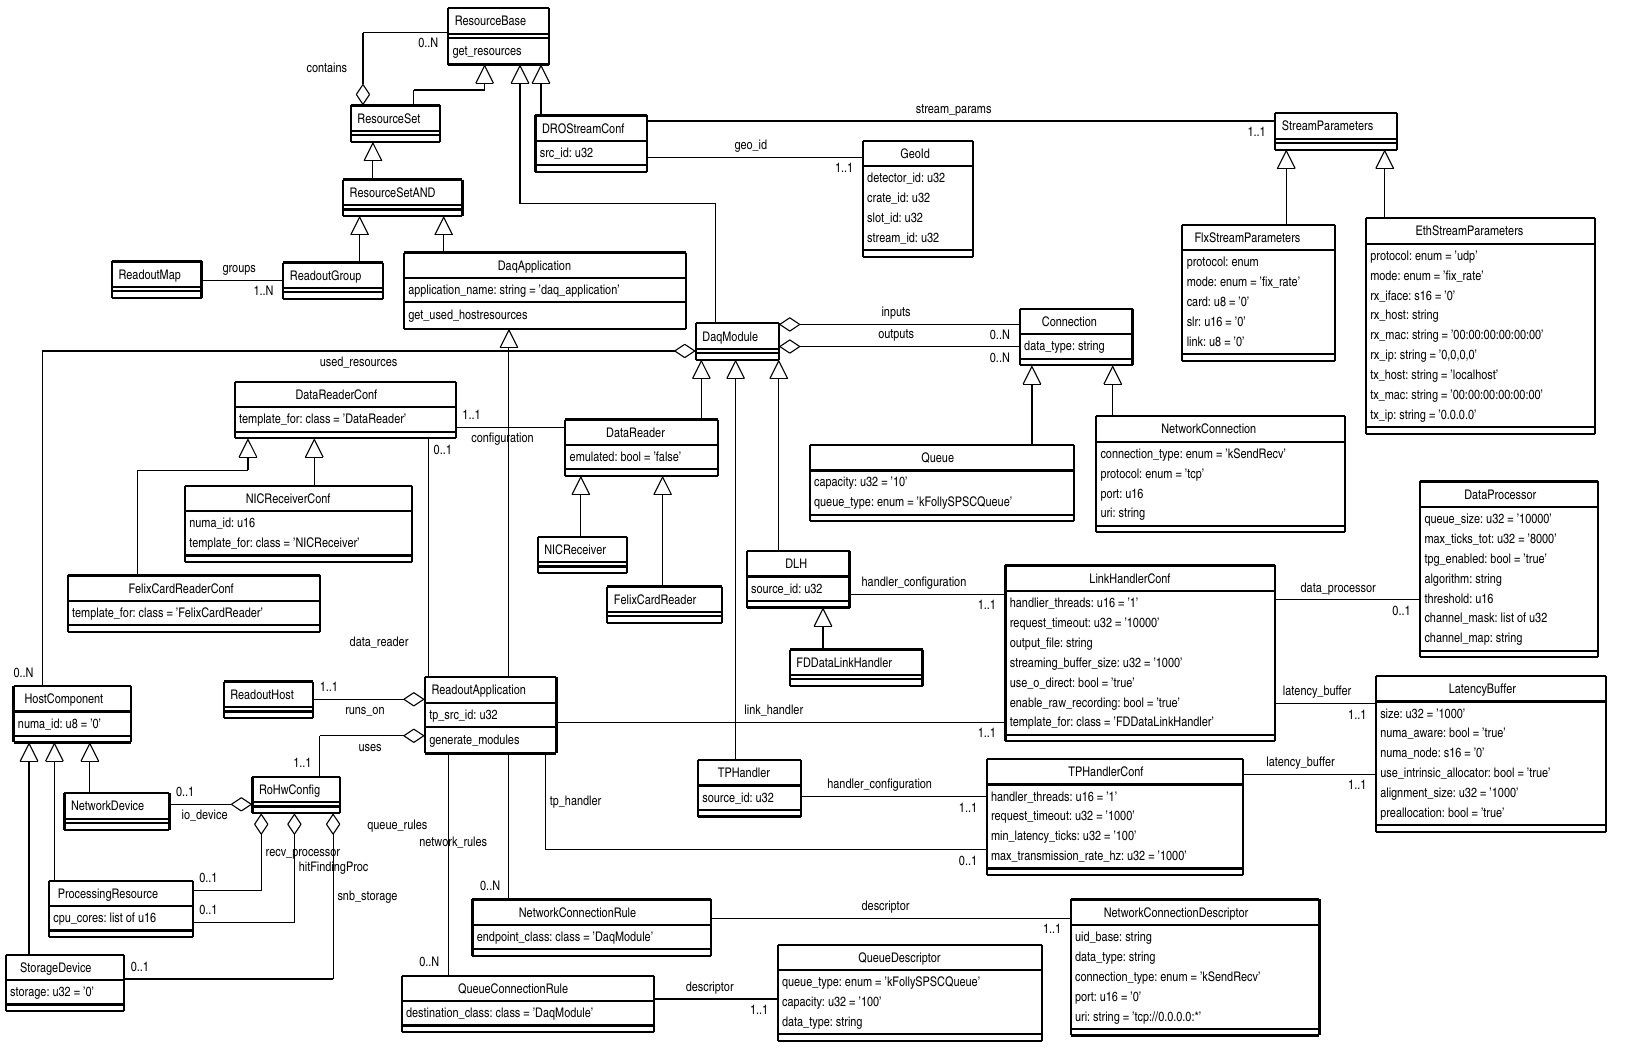
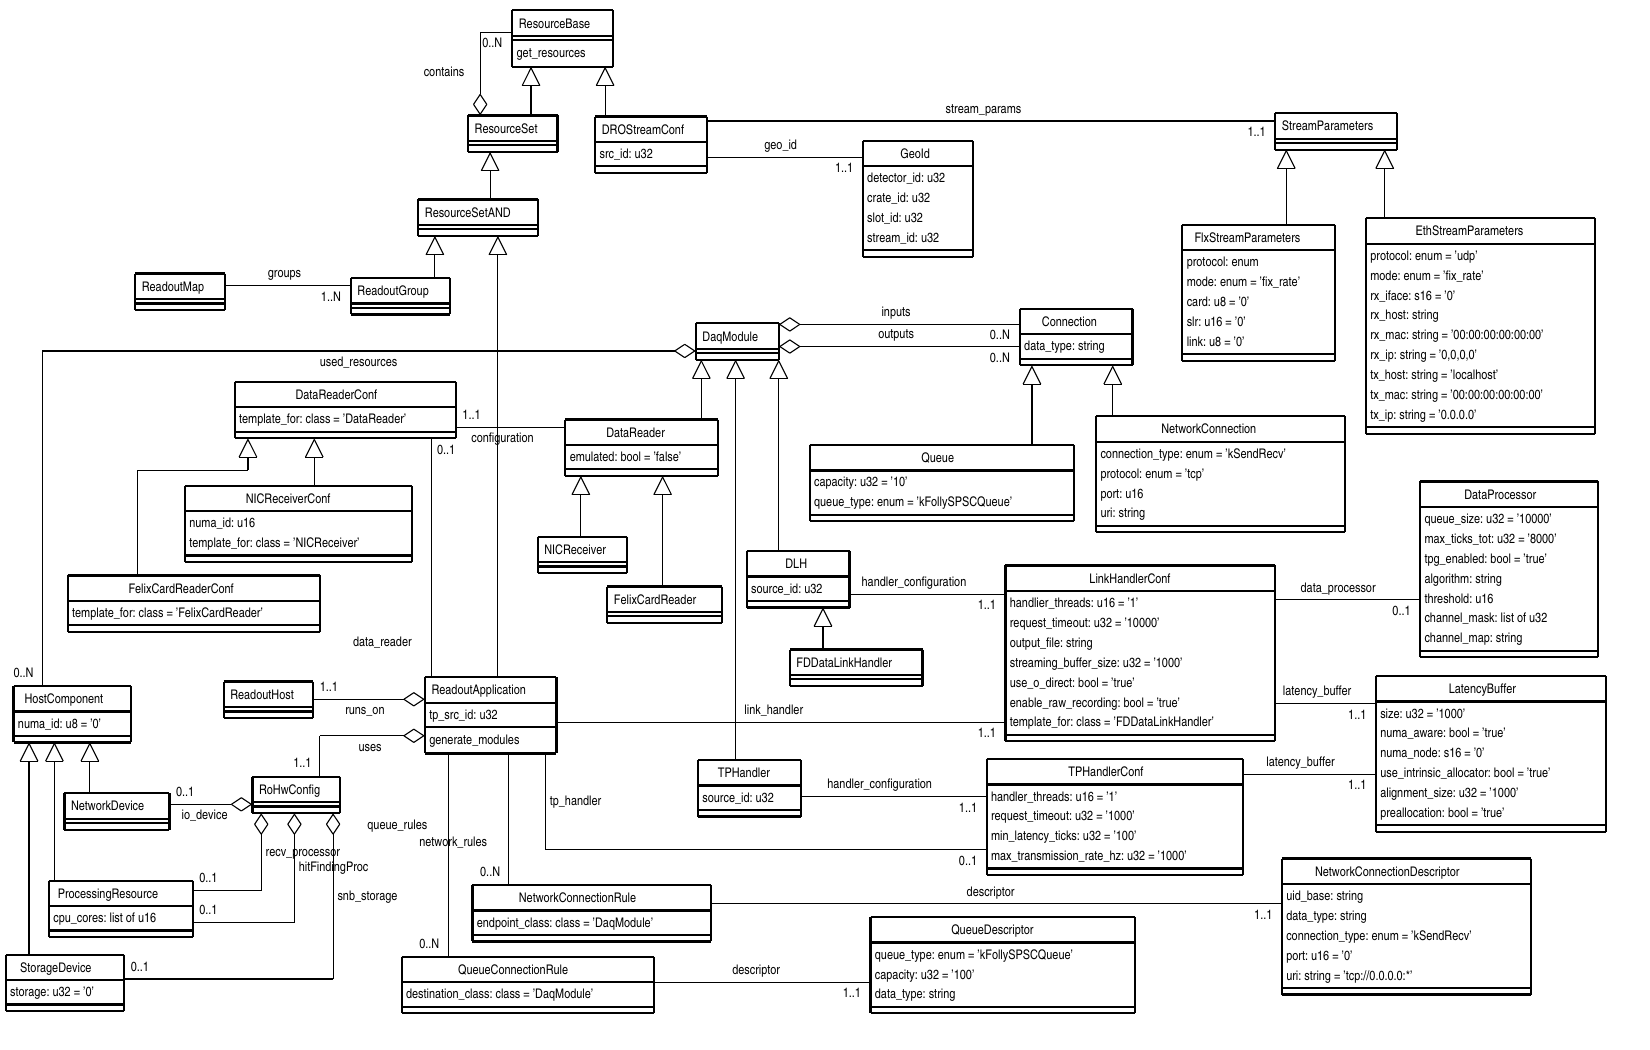
Make ReadoutApplication inherit directly from Application and ResourceSetAND

diff --git a/src/generate_modules.cpp b/src/generate_modules.cpp
@@ -131,7 +131,7 @@ ReadoutApplication::generate_modules(oksdbinterfaces::Configuration* confdb,
   //for (auto roGroup : get_readout_groups()) {
   for (auto roGroup : get_contains()) {
     if (roGroup->disabled(*session)) {
-      TLOG_DEBUG(5) << "Ignoring disabled ReadoutGroup " << roGroup->UID();
+      TLOG_DEBUG(7) << "Ignoring disabled ReadoutGroup " << roGroup->UID();
       continue;
     }
     auto rset = roGroup->cast<ReadoutGroup>();
@@ -145,7 +145,7 @@ ReadoutApplication::generate_modules(oksdbinterfaces::Configuration* confdb,
         throw (BadConf(ERS_HERE, "ReadoutGroup contains something other than DROStreamConf"));
       }
       if (stream->disabled(*session)) {
-        TLOG_DEBUG(5) << "Ignoring disabled DROStreamConf " << stream->UID();
+        TLOG_DEBUG(7) << "Ignoring disabled DROStreamConf " << stream->UID();
         continue;
       }
       auto id = stream->get_src_id();
